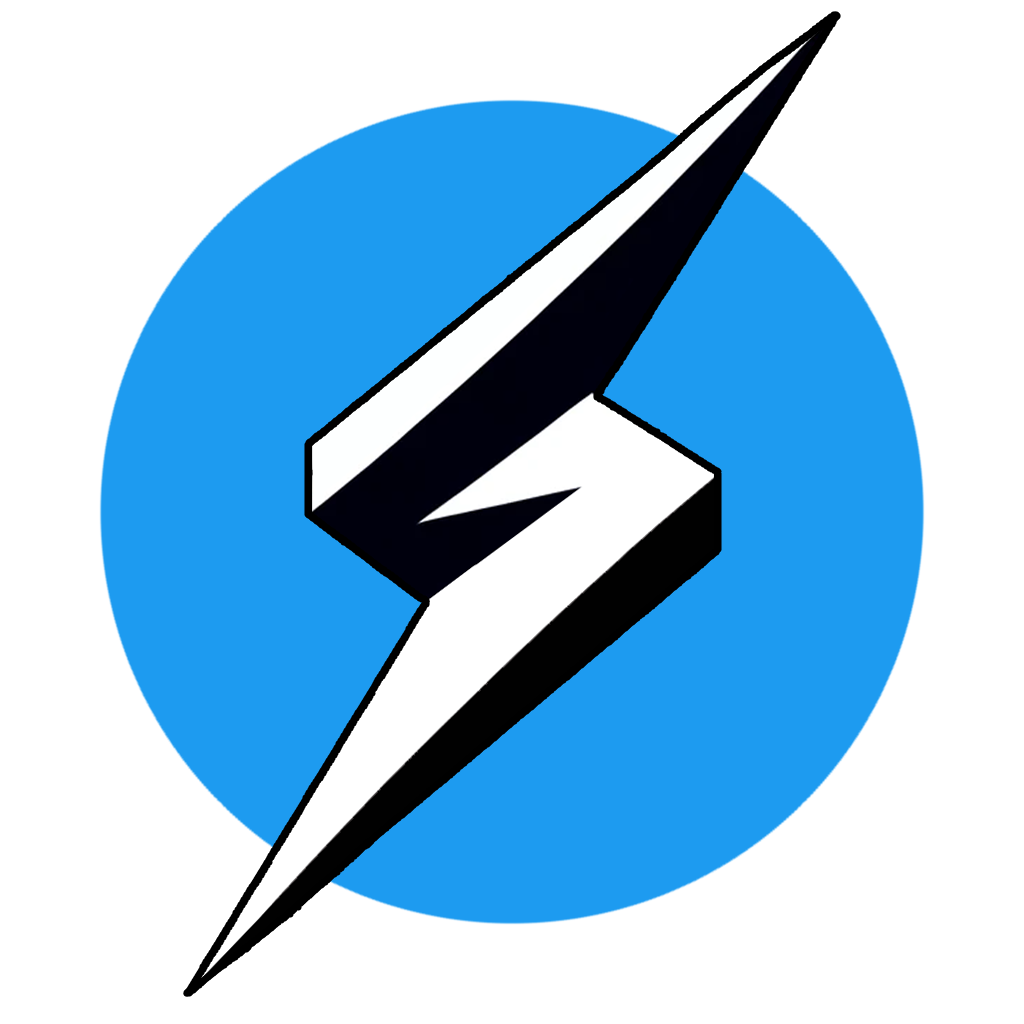
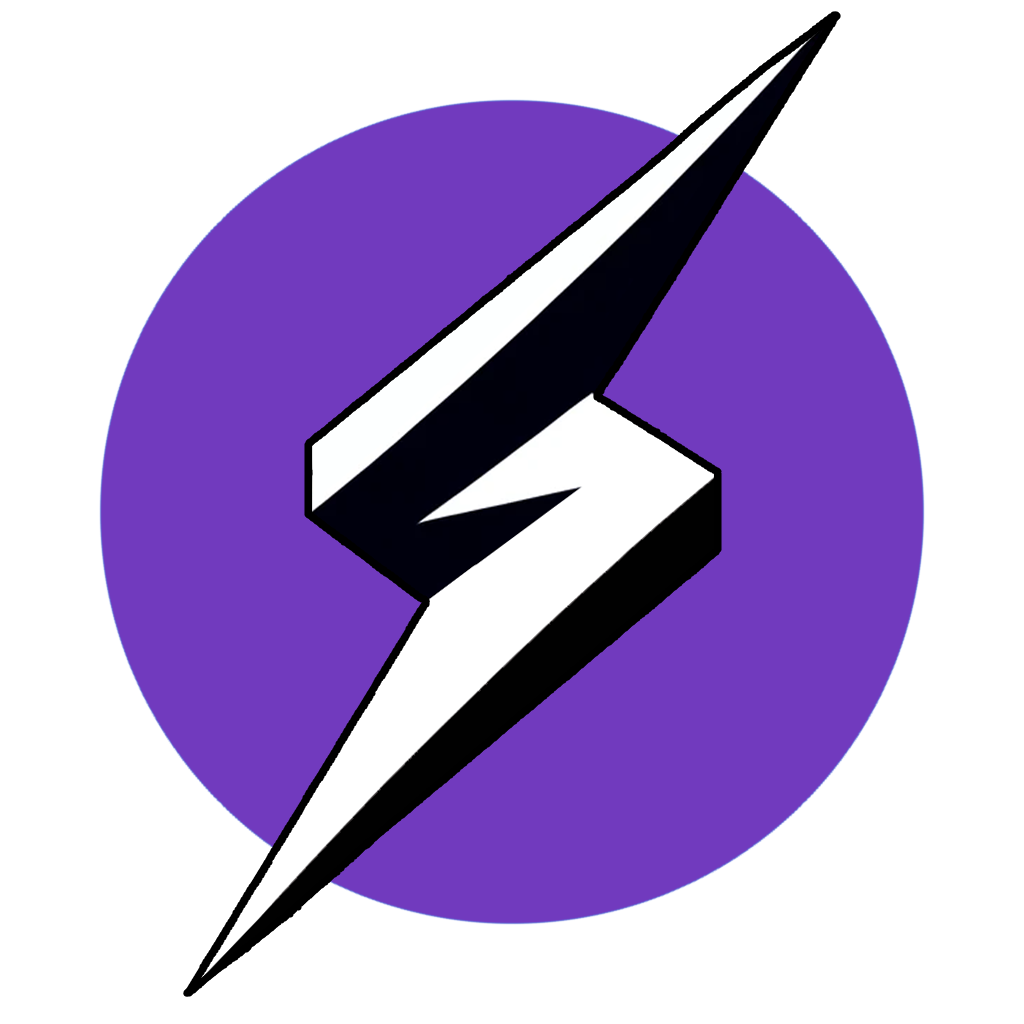
purple

diff --git a/components/EscrowCreate.js b/components/EscrowCreate.js
@@ -742,7 +742,7 @@ export default function EscrowFactory() {
                                     <div className="">
                                         {anyEscrows != "No current escrows" && buyerState && (
                                             <button
-                                                className="bg-blue-500 hover:bg-blue-700 text-white transition duration-300 ease-in-out  text-sm ml-1 font-bold py-3 mb-1 px-4 rounded-xl  "
+                                                className="bg-[#713ABE] hover:bg-[#5B0888] text-white transition duration-300 ease-in-out  text-sm ml-1 font-bold py-3 mb-1 px-4 rounded-xl  "
                                                 onClick={startEscrowButtonNew}
                                                 disabled={isLoading || isFetching}
                                             >
@@ -1288,10 +1288,10 @@ export default function EscrowFactory() {
                                     !showInputFields &&
                                     currentEscrow != "Creating new escrow contract" && (
                                         <button
-                                            className={`bg-blue-500  w-full rounded-xl text-white font-bold py-2 px-4  ml-right mr-4 mt-4  flex items-center justify-center ${
+                                            className={`bg-[#713ABE]    w-full rounded-xl text-white font-bold py-2 px-4  ml-right mr-4 mt-4  flex items-center justify-center ${
                                                 isLoading || isFetching || isApproving
                                                     ? "opacity-50 "
-                                                    : "hover:bg-blue-700 transition duration-300 ease-in-out"
+                                                    : "  hover:bg-[#5B0888] transition duration-300 ease-in-out"
                                             }`}
                                             onClick={approveButton}
                                             disabled={isLoading || isFetching || isApproving}

diff --git a/components/CustConnectButtonOnlyMetamask.jsx b/components/CustConnectButtonOnlyMetamask.jsx
@@ -58,7 +58,7 @@ export default function Home() {
     return (
         <div>
             {account ? (
-                <div onClick={disconnect} className="cursor-pointer bg-blue-100 py-2 px-4 text-blue-500 transition duration-300 ease-in-out hover:bg-blue-200 hover:text-blue-600 rounded-2xl font-medium">
+                <div onClick={disconnect} className="cursor-pointer bg-[#E5CFF7] py-2 px-4 text-[#713ABE] transition duration-300 ease-in-out hover:bg-[#9D76C1] hover:text-[#5B0888] rounded-2xl font-medium">
                     {account.slice(0, 5)}.....{account.slice(account.length - 5)}
                 </div>
             ) : (

diff --git a/components/Header.js b/components/Header.js
@@ -21,7 +21,7 @@ export default function Header() {
             <div className="flex items-center">
                 <img src="/elektro_adjusted.png" alt="Logo" className="h-16 w-16 mr-2  mt-1" />
 
-                <h1 className="font-bold text-3xl text-gray-800  ">Elektroscrow</h1>
+                <h1 className="font-bold text-3xl text-[#713ABE]  ">Elektroscrow</h1>
                 <div className="flex mt-2 ml-6">
                     <div
                         onClick={navigateToEscrow}

diff --git a/src/pages/index.js b/src/pages/index.js
@@ -20,7 +20,7 @@ export default function Home() {
                 <meta name="viewport" content="width=device-width, initial-scale=1" />
                 <link rel="icon" href="/favicon.ico" />
             </Head>
-            <div className="bg-[#f2faff]">
+            <div className="bg-[#f6f0ff]">
                 <div
                     className="bg-cover bg-center bg-no-repeat"
                     style={{

diff --git a/src/styles/globals.css b/src/styles/globals.css
@@ -29,7 +29,7 @@ scrollbar-width: none;  /* Firefox */
 }
 
 .custom-shadow {
-  box-shadow: 0 0 120px 20px #e0f3ff;
+  box-shadow: 0 0 120px 20px #eadbff;
 }
 .text-lsm {	font-size: 0.950rem; /* 14px */
   line-height: 1.5rem; /* 20px */}
